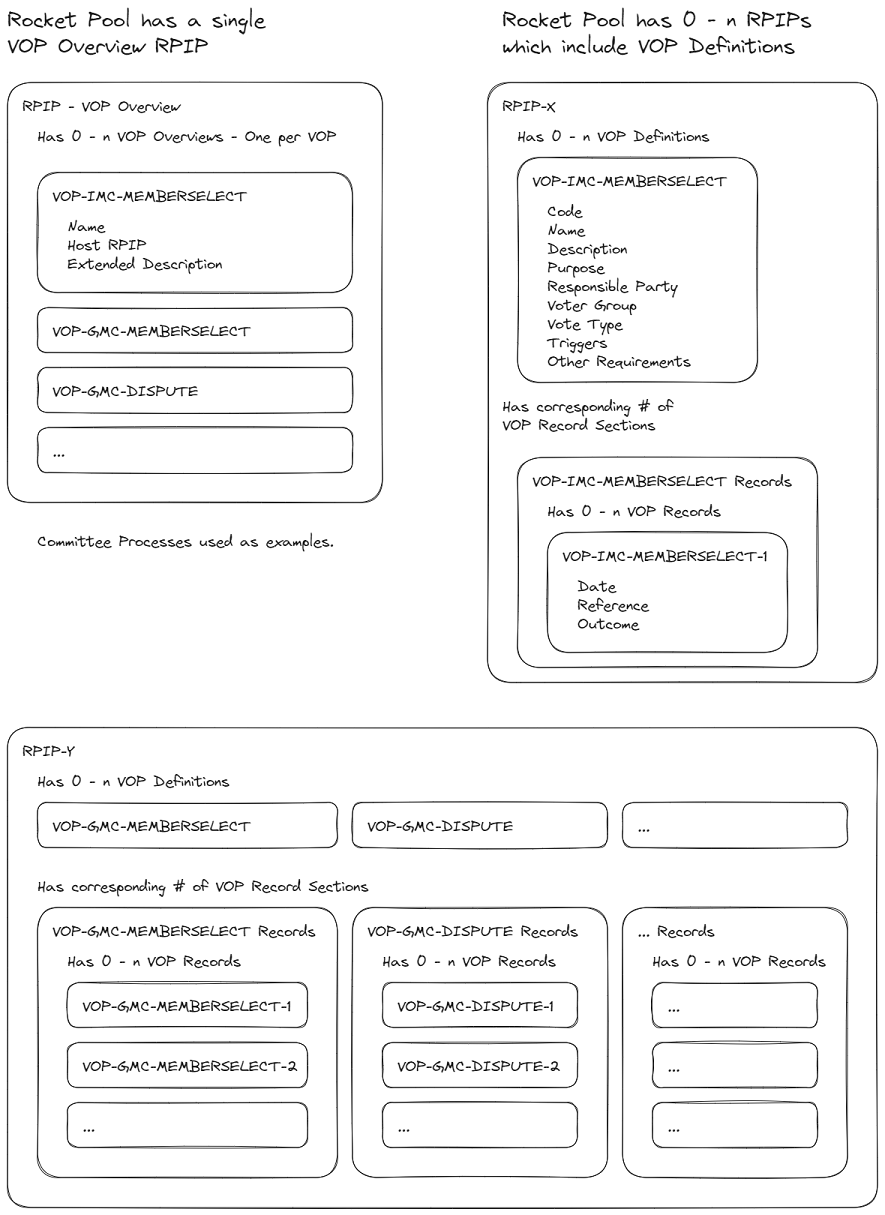
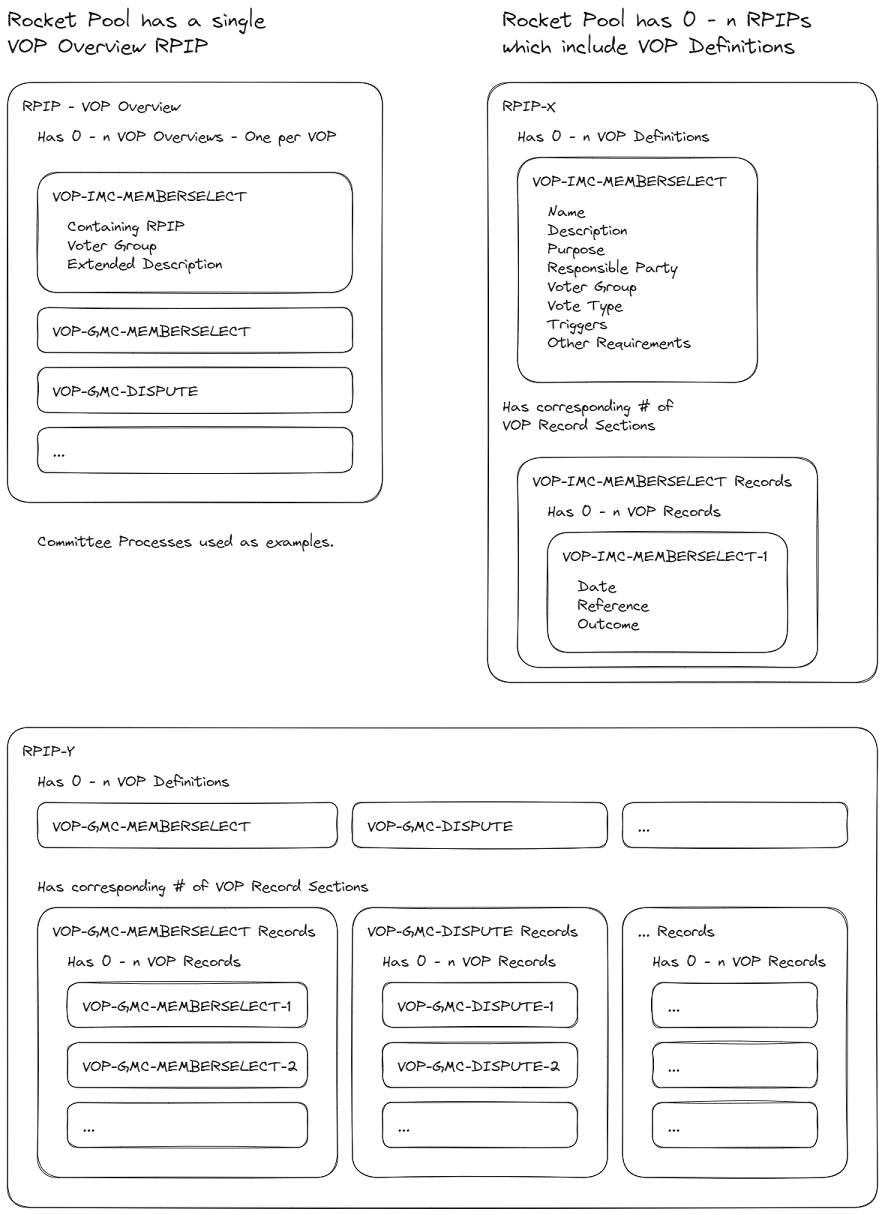
Added rationale. Ran grammarly, etc. Added VOP overview draft

Changed region(s): [[0.6102, 0.1523, 0.7932, 0.3045], [0.061, 0.1827, 0.1831, 0.2132]]

diff --git a/RPIPs/RPIP-vop.md b/RPIPs/RPIP-vop.md
@@ -11,53 +11,50 @@ created: 2023-10-02
 
 ## Abstract
 
-The VOP Framework consists of VOP definitions, VOP records,VOP instances and the VOP overview. VOP definitions are included in RPIPs and define how a specific operational process takes place. VOP records are also included in RPIPs, and contain relevant information connected to the outcome of instances of a defined process. A VOP instance is a single example of a process taking place according to a VOP definition. The VOP overview is a living informational RPIP that summarizes existing VOP definitions for accessibililty and transparency. This RPIP also mandates the conversion of appropriate existing processes within the Rocket Pool DAOs to fall under the VOP framework. 
+The VOP Framework consists of VOP definitions, VOP records, VOP instances, and the VOP overview. VOP definitions are included in RPIPs and define how a specific operational process takes place. VOP records are also included in RPIPs and contain relevant information connected to the outcome of instances of a defined process. A VOP instance is a single example of a process taking place according to a VOP definition. The VOP overview is a living informational RPIP that summarizes existing VOP definitions for accessibility and transparency. This RPIP also mandates the conversion of appropriate existing processes within the Rocket Pool DAOs to fall under the VOP framework. 
 
 ## Motivation
 
-The creation of an operational process framework will lead to reduced participant cost, increased transparency and increased extensibility for DAO operational decision-making.
+The creation of an operational process framework will lead to reduced participant cost, increased transparency, and increased extensibility for DAO operational decision-making.
 
 **Reduced Cost**
 
-First, the types of process that exist can be listed, summarized and presented in such a way that is more-approachable to the average participant than reading through multiple full RPIPs. Participant attention is a key resource. If all that is needed is a high-level overview of 'how does process x work in Rocket Pool', then attention should not need to be spent digging through low-level details unless required.
+First, the types of processes that exist can be listed, summarized, and presented in such a way that is more approachable to the average participant than reading through multiple full RPIPs. Participant attention is a key resource. If all that is needed is a high-level overview of 'how does process x work in Rocket Pool', then attention should not need to be spent digging through low-level details unless required.
 
-Second, votes and discussions can be labelled explicitly according to the process they are using. This makes it easier for participants to quickly slot items into the appropriate mental boxes. Essentially, it becomes easier for voters and participants to tailor their level of engagement with the seriousness of the decision at hand. For example:
-* An RPIP is important, because it now always represents a change to the status quo rather than an operational decision. "I should pay attention!"
-* A GMC election doesn't represent a change to how Rocket Pool works, but its important to set general direction of grants spending via membership. "I might provide some input!"
-* A grants appeal can be more safely left to those with more time / interest in low-level grants decisions. "Other parts of my life take priority right now!"
+Second, votes and discussions can be labeled explicitly according to the process they are using. This makes it easier for participants to quickly slot items into the appropriate mental boxes. Essentially, it becomes easier for voters and participants to tailor their level of engagement to the seriousness of the decision at hand. For example:
+* An RPIP is important because it now always represents a change to the status quo rather than an operational decision. "I should pay attention!"
+* A GMC election doesn't represent a change to how Rocket Pool works, but it's important to set the general direction of grant spending via membership. "I might provide some input!"
+* A grants appeal can be more safely left to those with more time/interest in low-level grant decisions. "Other parts of my life take priority right now!"
 
-Thirdly, this also levels the playing field for participants with different levels of committment. There is a reduced need to understand many subtly different processes. Instead there is a general framework makes engagement with any process less of a mental hurdle once the framework is understood.
+Thirdly, this also levels the playing field for participants with different levels of commitment. There is a reduced need to understand many subtly different processes. Instead, there is a general framework that makes engagement with any process less of a mental hurdle once the framework is understood.
 
 **Transparency**
 
-The outcomes of processes can be recorded in a clear, consistent and accessible manner. This is worthwhile in and of itself, but it does also reduce the attention and mental effort required to find relevant information.
+The outcomes of processes can be recorded in a clear, consistent, and accessible manner. This is worthwhile in and of itself, but it also reduces the attention and mental effort required to find relevant information.
 
 **Extensibility**
 
-Adoption of an operational process framework helps to structure the processes of the Rocket Pool DAOs in such a way that they are easily extensible in future improvement proposals. The motivation here is to encourage organization, transparency and accessibility in such a way that it becomes self-sustaining. If there is a clear existing structure in use, then it encourages its use in future RPIPs.
+Adoption of an operational process framework helps to structure the processes of the Rocket Pool DAOs in such a way that they are easily extensible in future improvement proposals. The motivation here is to encourage organization, transparency, and accessibility in such a way that it becomes self-sustaining. If there is a clear existing structure in use, then it encourages its use in future RPIPs.
 
 ## Specification
-$TODO Remove
-The key words “MUST”, “MUST NOT”, “REQUIRED”, “SHALL”, “SHALL NOT”, “SHOULD”, “SHOULD NOT”, “RECOMMENDED”, “MAY”, and “OPTIONAL” in this document are to be interpreted as described in RFC 2119.
 
 ### VOPs: What and When?
 This section describes what a VOP is, and when to use the VOP framework.
 
 * A Voted Operational Process (VOP) is a process involving a vote through which an operational decision is made.
   * Some operational decisions within the Rocket Pool DAOs MAY NOT require a vote, and should not be included under the VOP framework.
-* A VOP MUST NOT be defined to cover decisions that are improvements to the Rocket Pool protocol, Rocket Pool DAOs, or anything that should otherwise require use of the RPIP process.
+* A VOP MUST NOT be defined to cover decisions that are improvements to the Rocket Pool protocol, Rocket Pool DAOs, or anything that should otherwise require the use of the RPIP process.
 * The dividing line between which decisions should use the RPIP process versus the VOP framework may be unavoidably blurry. The following general recommendations are made:
   * If a proposal can reasonably predicted to be unique, it is RECOMMENDED to use the RPIP process.
   * If a proposal is the first of its type or class, and it is not anticipated to repeat frequently or regularly it is RECOMMENDED to use the RPIP process.
   * If a proposal is not the first of its type or class, or if it is anticipated to repeat frequently or regularly it is RECOMMENDED to use the VOP framework. 
 * The VOP framework SHOULD be used for anything that fits the definition of a voted operational process. 
-  * If an RPIP specifies a process that could reasonably fit within the VOP framework, without adhering to the VOP framework, it MUST include detailed rationale as to why adhering to the VOP framework is not preferable.
+  * If an RPIP specifies a process that could reasonably fit within the VOP framework, without adhering to the VOP framework, it MUST include a detailed rationale as to why adhering to the VOP framework is not preferable.
 
 ---
 
 ### Visual Aid for VOP Concepts
 
-Note, these diagrams are all one framework. Not three different frameworks!
 
 ![image](../assets/rpip-draft/vops-diagram.png) 
 
@@ -69,12 +66,12 @@ Note, these diagrams are all one framework. Not three different frameworks!
 * A VOP definition contains the elements that make up a particular type of VOP.
 * A VOP definition MUST include the elements defined in the VOP Elements section of this specification.
 * A VOP definition SHOULD follow the template defined in the VOP Definition Template section of this specification.
-* If use of the VOP framework is deemed appropriate, a VOP definition MUST be included in the RPIP in which the process is described.
+* If the use of the VOP framework is appropriate, a VOP definition MUST be included in the RPIP in which the process is described.
 
 
 #### VOP Elements
 * Code - A short, unique, human-readable string identifier that can be used to identify instances of this VOP. Should take the rough form of VOP-SUBJECT-ACTION
-* Name - A longer identifier in plain english. 
+* Name - A longer identifier in plain English. 
 * Description - A description of this VOP.
 * Purpose - Why does this VOP definition exist?
 * Responsible Party - What party is responsible for ensuring this VOP takes place when it is triggered?
@@ -93,7 +90,7 @@ Note, these diagrams are all one framework. Not three different frameworks!
 
 ##### VOP Other Requirements
 * A VOP MAY have more detailed requirements or prerequisites than can be easily summarized into the VOP definition format.
-* Any requirements of this nature should be detailed under a specific heading in the same, or another RPIP. 
+* Any requirements of this nature should be detailed under a specific heading in the same or another RPIP. 
   * This heading should then be referenced in the VOP definition under 'Other Requirements'.
 
 ---
@@ -101,15 +98,15 @@ Note, these diagrams are all one framework. Not three different frameworks!
 ### VOP Usage - Instances
 > VOP-GMC-MEMBERSELECT-1 is a single GMC membership selection, with a date, candidates, a vote, and results.
 
-* A VOP instance is an instanciation of a VOP definition.  
+* A VOP instance is an instantiation of a VOP definition.  
 * When a VOP instance is triggered, it SHALL be assigned the next free ID number by the responsible party.
   * ID numbers are unique per VOP definition, start at 1, and increment by 1. 
-  * VOP ID's MUST be appended to the VOP code with a hyphen.
+  * VOP IDs MUST be appended to the VOP code with a hyphen.
 
 ---
 
 ### VOP Usage - Records
-> The outcome of the VOP-GMC-MEMBERSELECT-1 instance are recorded into the appropriate record VOP record section.
+> The outcome of the VOP-GMC-MEMBERSELECT-1 instance is recorded in the appropriate record VOP record section.
 
 * A VOP record entry contains the results of a concluded VOP instance.
 * A VOP record section MUST be included in the RPIP in which a VOP is defined.
@@ -203,22 +200,46 @@ Note, table generators exist: https://www.tablesgenerator.com/markdown_tables#
 #### VOP Overview Entry Template
 
 ```
-#### VOP-EXAMPLE-EXAMPLE - <CONTAINING RPIP>
+### VOP-EXAMPLE-EXAMPLE
+Defined In: <CONTAINING RPIP>
+Voting Group: <VOTING GROUP>
 <VOP Extended Description>
 ```
 
-##### VOP-EXAMPLE-EXAMPLE - [RPIP-VOP](RPIP-VOP.md)
+##### VOP-EXAMPLE-OVERVIEW
+**Defined In:** [RPIP-vip](RPIP-vop.md)  
+**Voting Group:** pDAO  
 
-This VOP is an example voter operational process that is intended to demonstrate how to define VOPs, describe VOPs, and record VOP instance outcomes. This VOP is just an example, so there's not really very much to say in this  overview! 
+This VOP is an example voter operational process that is intended to demonstrate how to define VOPs, describe VOPs, and record VOP instance outcomes. This VOP is just an example, so there's not very much to say in this overview! 
 
 The intention is for overviews such as this to exist in a single informational RPIP that lists all defined VOPs that exist in the Rocket Pool DAOs. These descriptors will allow newcomers to the Rocket Pool community to easily identify common processes that take place at a high-level, and learn more about any they are interested in.
 
 ---
 
 ## Rationale
-$TODO Add
 
-The rationale fleshes out the specification by describing what motivated the design and why particular design decisions were made. It should describe alternate designs that were considered and related work, e.g. how the feature is supported in other languages.
+### General Structure
+
+The general structure proposed here isn't anything new or ground-breaking. The value is in better categorizing decision-making such that decisions with very different characteristics don't _look the same_ to those needing to make them. This structure is the most lightweight possible to allow some form of categorization. Hierarchical structures are an option with more complexity, but I don't feel there is an obvious need to pay that cost within Rocket Pool at this time. A compositional structure with tagging is another option, tags can represent a better user experience, but they do require more active and consistent maintenance, which I don't believe can be relied upon based on the current state of the Rocket Pool DAOs.
+
+### Overview
+
+Having an overview in some form is valuable to less-engaged participants, and those wanting to onboard into the DAO. Arguably this doesn't need to be in an Informational RPIP, other options are some official documentation hosted elsewhere, or to try to generate this dynamically based on the RPIP content. Dynamic generation has some advantages, though it can't replicate a hand-written description by the RPIP editors. I'm planning to experiment a bit with dynamic generation if this should pass. If I end up with something good, I may propose removing the informational RPIP in favor of a dynamic page on the portal. Ultimately though, adding an informational RPIP is just the most obvious and easiest immediate solution. 
+
+
+### Definitions
+
+Much of the benefit here comes from some standardized format for these processes. There is some argument for defining these in a more explicitly machine-readable format (YAML, JSON, etc), such that they can be used as source data for varying forms of display. However, we're already adding to the effort required when writing an RPIP just by adopting this framework. Requiring authors to include non-trivial YAML/JSON/etc seems like a step too far in terms of imposing boundaries.
+
+Arguments can also be made for formatting these differently, using tables, etc. Doesn't matter a huge amount. Bullets and bolded text are a fair middle ground between legibility and the use of vertical and horizontal space. 
+
+In terms of the elements required for definitions, this represents my best guess of what's required within the bounds of what is reasonable for authors to add. Use of the framework may reveal the utility of additional elements or indicate the removal of some of the initial set. Doesn't feel worth overthinking too much, we can just adjust via experience.
+
+The inclusion of 'Other Requirements' does threaten to remove the value of standardization here. If every VOP is defining different other requirements. This is probably something to watch out for, but doesn't feel like you can just remove this field. At the very least, existing processes define more detailed requirements than can be captured in the current definition keys so this element needs to exist, at least at the point of transition. 
+
+### Records
+
+Records in some form are valuable. Tables make the most sense, as they are fairly compact, and make good use of horizontal space once you have a reasonable amount of columns.
 
 ## Backwards Compatibility
 
@@ -239,7 +260,7 @@ This is a voted operational process (VOP) definition, see RPIP-vop for more info
 * **Vote Type:** Weighted (Snapshot)
 * **Trigger(s):** 
   * Periodic approximately yearly (between 10-14 months).
-  * More than half of the GMC is membership has not been elected via vote.
+  * More than half of the GMC's membership has not been elected via vote.
   * There are vacant seats on the GMC that cannot be filled without a vote.
 * **Other Requirements:**  See RPIP-10 - Management Committee Selection for full requirements.
 
@@ -280,7 +301,7 @@ This is a voted operational process (VOP) definition, see RPIP-vop for more info
 * **Vote Type:** Weighted (Snapshot)
 * **Trigger(s):** 
   * Periodic approximately yearly (between 10-14 months).
-  * More than half of the IMC is membership has not been elected via vote.
+  * More than half of the IMC's membership has not been elected via vote.
   * There are vacant seats on the IMC that cannot be filled without a vote.
 * **Other Requirements:** See RPIP-10 - Management Committee Selection for full requirements.
 
@@ -334,7 +355,7 @@ Optional:
 
 ## Security Considerations
 
-There are few security considerations to this RPIP, as it is non-technical. Modifications to the logic of any existing processes are limited to separating those processes from the main RPIPs framework. 
+There are not many security considerations for this RPIP, as it is non-technical. Modifications to the logic of any existing processes are limited to separating those processes from the main RPIPs framework. 
 
 The possibility exists that the attached PR and modifications to existing RPIPs may unintentionally modify the logic or rules governing existing processes. This is mitigated by explicitly giving RPIP Editors the power to restore the intended logic or rules without a further vote.
 

diff --git a/RPIPs/RPIP-vop-overview.md b/RPIPs/RPIP-vop-overview.md
@@ -1,0 +1,76 @@
+---
+rpip: 
+title: Voted Operational Process Overview
+description: This file describes the Voted Operational Processes present in the Rocket Pool DAOs at a high level.
+author: LongForWisdom (@LongForWisdom)
+discussions-to: 
+status: Living
+type: Informational
+created: 2023-10-02
+---
+
+
+## Abstract
+
+## Motivation
+
+## Specification
+This RPIP shall be maintained by the RPIP Editors such that it includes an entry for every Voted Operational Process present in the Rocket Pool DAOs. 
+
+This is an informational RPIP. Information in the Overview descriptions is descriptive rather than binding.
+
+## Grants Management Committee Processes
+
+### VOP-GMC-MEMBERSELECT
+**Defined In:** [RPIP-26](RPIP-26.md)  
+**Voting Group:** pDAO  
+
+Used to select the membership of the Grants Management Committee. The members are first nominated, and then elected via a pDAO vote. Selection takes place at least once a year. It may occur more frequently if required due to lack of valid members on the committee.
+
+### VOP-GMC-DISPUTE
+**Defined In:** [RPIP-26](RPIP-26.md)  
+**Voting Group:** pDAO  
+
+Used by the Rocket Pool community to dispute a grants decision made by the Grants Management Committee. A dispute can be raised within two weeks of a decision, and will go to a pDAO vote which may direct the GMC to reverse the decision.
+
+### VOP-GMC-ADMINSELECT
+**Defined In:** [RPIP-26](RPIP-26.md)  
+**Voting Group:** GMC Members  
+
+Used to select the Grants Management Committee Administrator. The administrator is chosen via an internal vote by the GMC members after seeking public applications. The administrator helps organize and manage the GMC members in their duties. 
+
+### VOP-GMC-ADMINREMOVE
+**Defined In:** [RPIP-26](RPIP-26.md)  
+**Voting Group:** GMC Members  
+
+Used to remove the Grants Management Committee Administrator. GMC members can remove the GMC administrator via an internal vote if for whatever reason the administrator is no longer deemed a suitable fit for the position.
+
+## Incentives Management Committee Processes
+
+### VOP-IMC-MEMBERSELECT
+**Defined In:** [RPIP-20](RPIP-20.md)  
+**Voting Group:** pDAO  
+
+
+Used to select the membership of the Incentives Management Committee. The members are first nominated, and then elected via a pDAO vote. Selection takes place at least once a year, though more frequently if required due to lack of valid members to fill the committee.
+
+## oDAO Membership Processes
+
+### VOP-ODAO-MEMBERSUGGEST
+**Defined In:** [RPIP-24](RPIP-24.md)  
+**Voting Group:** pDAO  
+
+Used by the pDAO to signal a desired change for membership in the oDAO. The pDAO does not have the ability to force the oDAO to change its membership, but may suggest a change via this VOP. 
+
+### VOP-ODAO-MEMBERCHANGE
+**Defined In:** [RPIP-24](RPIP-24.md)  
+**Voting Group:** oDAO  
+
+Used by the oDAO to add or remove its members. Voting takes place on-chain by existing oDAO members. The oDAO is required to vote on a member change if the pDAO suggest one via VOP-ODAO-MEMBERSUGGEST.  
+
+
+
+
+
+## Copyright
+Copyright and related rights waived via [CC0](https://creativecommons.org/publicdomain/zero/1.0/).
